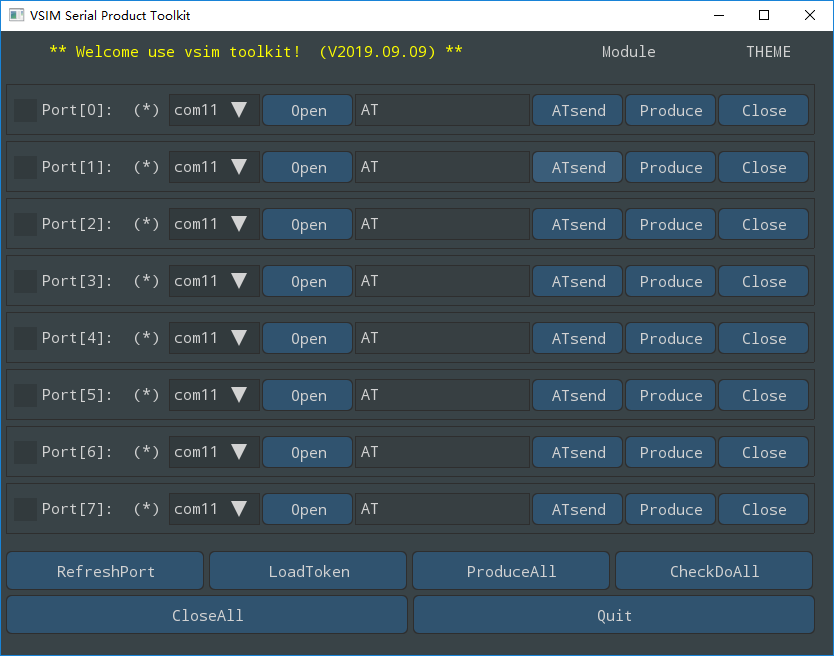
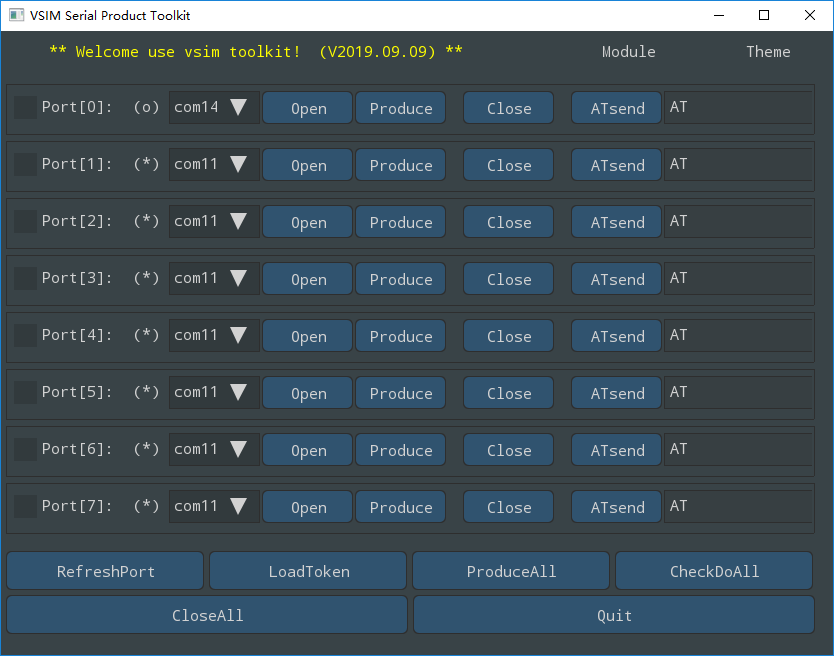
微调界面

diff --git a/gui.go b/gui.go
@@ -56,9 +56,11 @@ func newportGroup() (pg *portGroup) {
 	pg.ComboPorts = ports_list
 
 	for port_id := 0; port_id < SERAIL_PORT_MAX; port_id++ {
-		pg.TestCmdEditor[port_id].Flags = nucular.EditSelectable
+		//pg.TestCmdEditor[port_id].Flags = nucular.EditSelectable
+		pg.TestCmdEditor[port_id].Flags |= nucular.EditBox
+		pg.TestCmdEditor[port_id].Flags |= nucular.EditNeverInsertMode
 		pg.TestCmdEditor[port_id].Buffer = []rune("AT")
-		pg.TestCmdEditor[port_id].Maxlen = 64
+		pg.TestCmdEditor[port_id].Maxlen = 128
 	}
 
 	myBtnTab[Btn_CMD_Produce] = BtnDoTable{Btn_CMD_Produce, "produce", serialProduce}
@@ -139,7 +141,7 @@ func (pg *portGroup) showMenuBar(w *nucular.Window) {
 		}
 	}
 
-	if w := w.Menu(label.TA("THEME", "RC"), 150, nil); w != nil {
+	if w := w.Menu(label.TA("Theme", "RC"), 150, nil); w != nil {
 		w.Row(25).Dynamic(1)
 		newtheme := pg.Theme
 		if w.OptionText("Default Theme", newtheme == nstyle.DefaultTheme) {
@@ -164,6 +166,60 @@ func (pg *portGroup) showMenuBar(w *nucular.Window) {
 }
 
 func (pg *portGroup) showPortG(w *nucular.Window, portid int) {
+	w.Row(40).Dynamic(1)
+	if sw := w.GroupBegin("Group Port", nucular.WindowNoScrollbar|nucular.WindowBorder); sw != nil {
+		sw.Row(2).Dynamic(1)
+		sw.Row(26).Static(90, 30, 70, 70, 70, 10, 70, 10, 70, 600)
+		sw.CheckboxText(fmt.Sprintf("Port[%d]: ", portid), &pg.Checkbox[portid])
+
+		if serial_port[portid].strInfo == "" {
+			sw.Label(string("(*)"), "LC")
+		} else {
+			sw.Label(string("("+serial_port[portid].strInfo+")"), "LC")
+		}
+
+		pg.CurrentPortId[portid] = sw.ComboSimple(pg.ComboPorts, pg.CurrentPortId[portid], 20)
+		strCom := COM_RNAME_PREFIX + pg.ComboPorts[pg.CurrentPortId[portid]]
+
+		if sw.Button(label.T("Open"), false) {
+			if serialOpen(portid, strCom) != 0 {
+				msg := fmt.Sprintf("Filed to open the %s!", strCom)
+				pg.openMessage(w, msg)
+			}
+		}
+
+		if sw.Button(label.T("Produce"), false) {
+			if portIsOK(portid) == 0 {
+				msg := fmt.Sprintf("Please open the port[%d]!", portid)
+				pg.openMessage(w, msg)
+			} else {
+				pg.btnProduce(sw, portid, strCom)
+			}
+		}
+
+		sw.Label(string(" "), "LC")
+		if sw.Button(label.T("Close"), false) {
+			serialClose(portid)
+		}
+
+		sw.Label(string(" "), "LC")
+		if sw.Button(label.T("ATsend"), false) {
+			if portIsOK(portid) == 0 {
+				msg := fmt.Sprintf("Please open the port[%d]!", portid)
+				pg.openMessage(w, msg)
+			} else {
+				strCmd := string(pg.TestCmdEditor[portid].Buffer)
+				serialATsendCmd(portid, strCom, strCmd)
+			}
+		}
+
+		pg.TestCmdEditor[portid].Edit(sw)
+
+		sw.GroupEnd()
+	}
+}
+
+func (pg *portGroup) showPortG2(w *nucular.Window, portid int) {
 	w.Row(40).Dynamic(1)
 	if sw := w.GroupBegin("Group Port", nucular.WindowNoScrollbar|nucular.WindowBorder); sw != nil {
 		sw.Row(4).Dynamic(1)

diff --git a/produce.go b/produce.go
@@ -141,16 +141,21 @@ func getServInfo_pv1(portid int) int {
 
 	ret := 403
 	for index := 0; index < OPER_MAX; index++ {
+		res_data = devResPlainData{}
 		req_data = devReqPlainData{
 			Imei:  serial_port[portid].devInfo.sim_src.Imei,
 			Token: serial_port[portid].devInfo.token[index],
 		}
 
 		/* test */
-		if (myProduce.TestFlag == 1) && (index == OPER_CN_TELECOM) {
-			req_data.Imei = "863412049788253"
-			req_data.Token = "YR0NI-259CE-R3JI5-01DJN-ENY2Z"
+		if myProduce.TestFlag == 1 {
+			if index == OPER_CN_MOBILE {
+				req_data.Imei = "867732034973305"
+			} else if index == OPER_CN_TELECOM {
+				req_data.Imei = "863412049788253"
+			}
 		}
+		/* test end */
 
 		if req_data.Token == "" {
 			continue
@@ -199,7 +204,7 @@ func getServInfo_cv1(portid int, version int) int {
 		Imei:   serial_port[portid].devInfo.sim_src.Imei,
 		Chipid: serial_port[portid].devInfo.sim_src.ChipID,
 		Token:  serial_port[portid].devInfo.token[OPER_CN_MOBILE],
-		//TODO? Token of oper
+		//TODO? only Token of CMCC
 	}
 
 	/* test */
@@ -207,8 +212,8 @@ func getServInfo_cv1(portid int, version int) int {
 		req_data.Ver = "CosVer_1.1.4"
 		req_data.Imei = "867732034973305"
 		req_data.Chipid = "3934363531303236320A3A373B3C3A3B"
-		req_data.Token = "WPAFE-7O2T3-SPEX9-DUWBJ"
 	}
+	/* test end */
 
 	reqSimServer(version, req_data, &res)
 	err := json.Unmarshal(res, &res_data)
@@ -249,7 +254,6 @@ func getServInfo_cv3(portid int, version int) int {
 		req_data.Ver = "CosVer_1.1.4"
 		req_data.Imei = "867732034973305"
 		req_data.Chipid = "3934363531303236320A3A373B3C3A3B"
-		req_data.Token[OPER_CN_MOBILE] = "WPAFE-7O2T3-SPEX9-DUWBJ"
 	}
 
 	reqSimServer(version, req_data, &res)
@@ -310,7 +314,8 @@ func setVsimData(portid int) int {
 
 	ret := 0
 
-	if (*myProduce.Mod)[Module_CMD2_SIM192].CmdFunc != nil {
+	if ((*myProduce.Mod)[Module_CMD2_SIM192].CmdFunc != nil) &&
+		(serial_port[portid].devInfo.sim_ens.EncData192 != "") {
 		ret = (*myProduce.Mod)[Module_CMD2_SIM192].CmdFunc(
 			Module_CMD2_SIM192, portid,
 			serial_port[portid].comPort,
@@ -319,7 +324,8 @@ func setVsimData(portid int) int {
 		vlog.Info("    set de192 %s", result)
 	}
 
-	if (*myProduce.Mod)[Module_CMD2_SIM64].CmdFunc != nil {
+	if ((*myProduce.Mod)[Module_CMD2_SIM64].CmdFunc != nil) &&
+		(serial_port[portid].devInfo.sim_ens.EncData64 != "") {
 		ret = (*myProduce.Mod)[Module_CMD2_SIM64].CmdFunc(
 			Module_CMD2_SIM64, portid,
 			serial_port[portid].comPort,
@@ -329,7 +335,8 @@ func setVsimData(portid int) int {
 	}
 
 	if ret == 0 {
-		return 192
+		vlog.Info("    Port[%d]: failed to set sim data on", portid)
+		return 170
 	}
 
 	vlog.Info("Port[%d] p(5.1)=> do producing ok!", portid)
